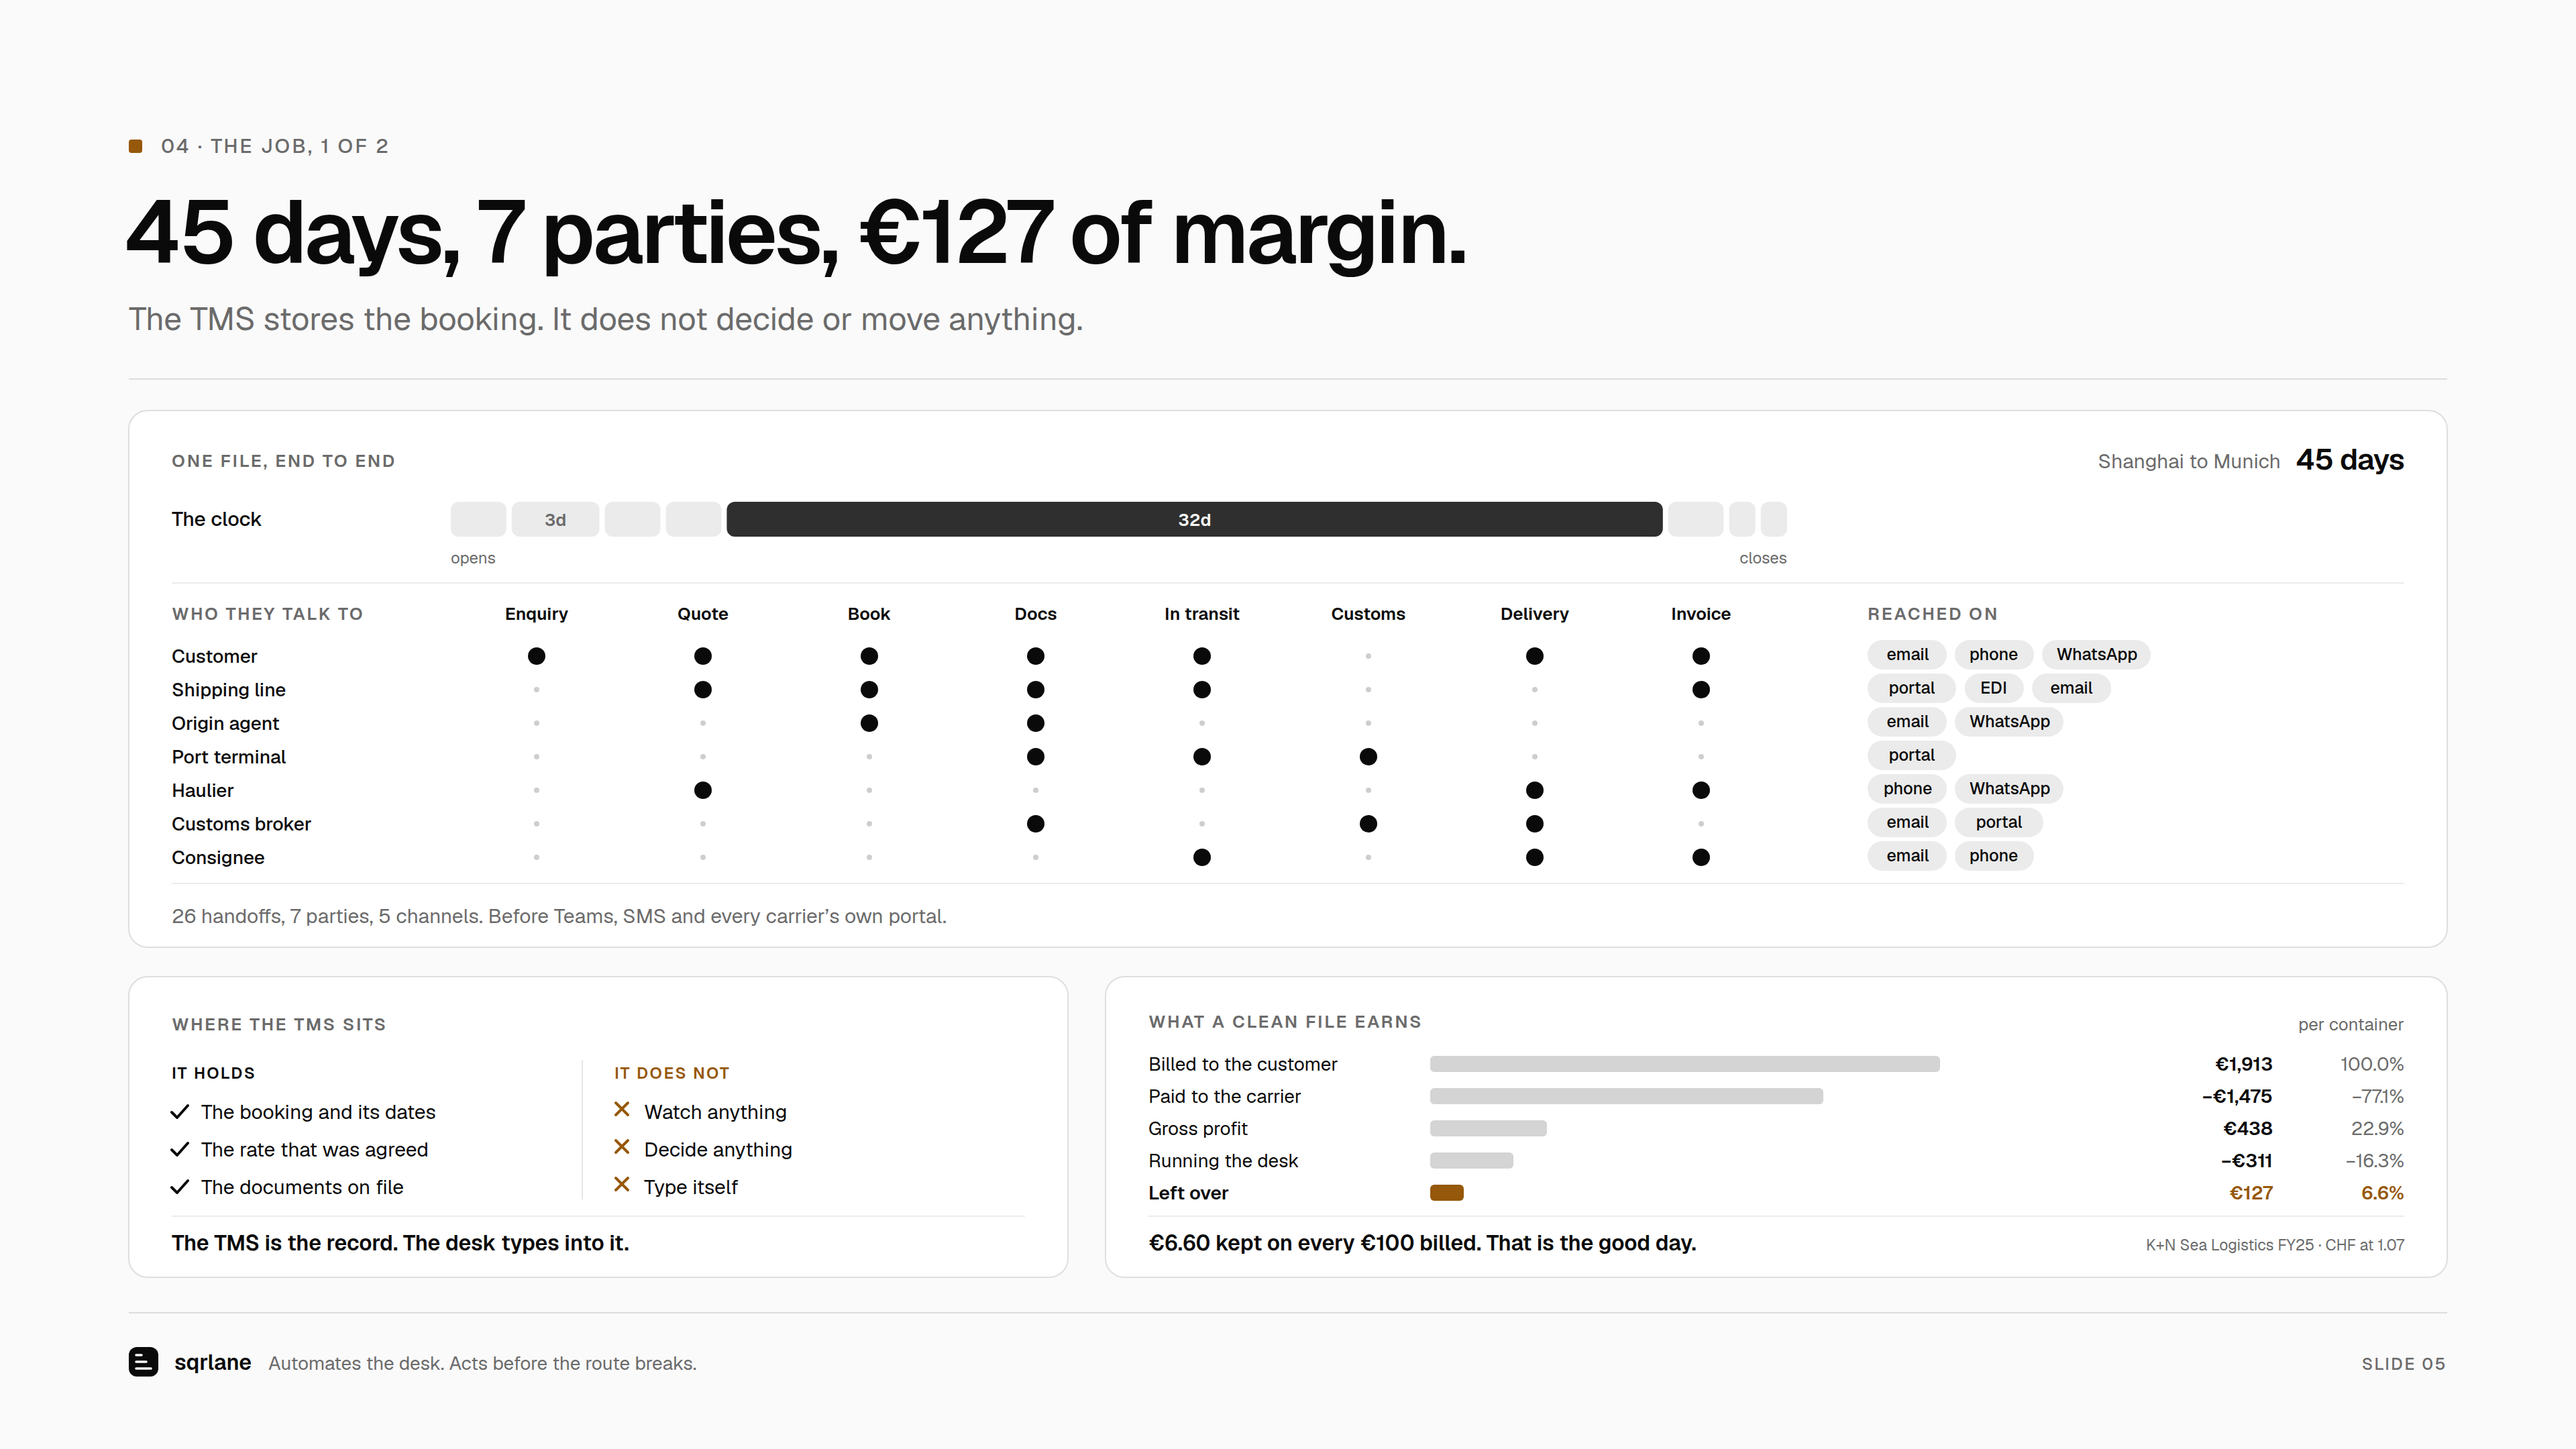
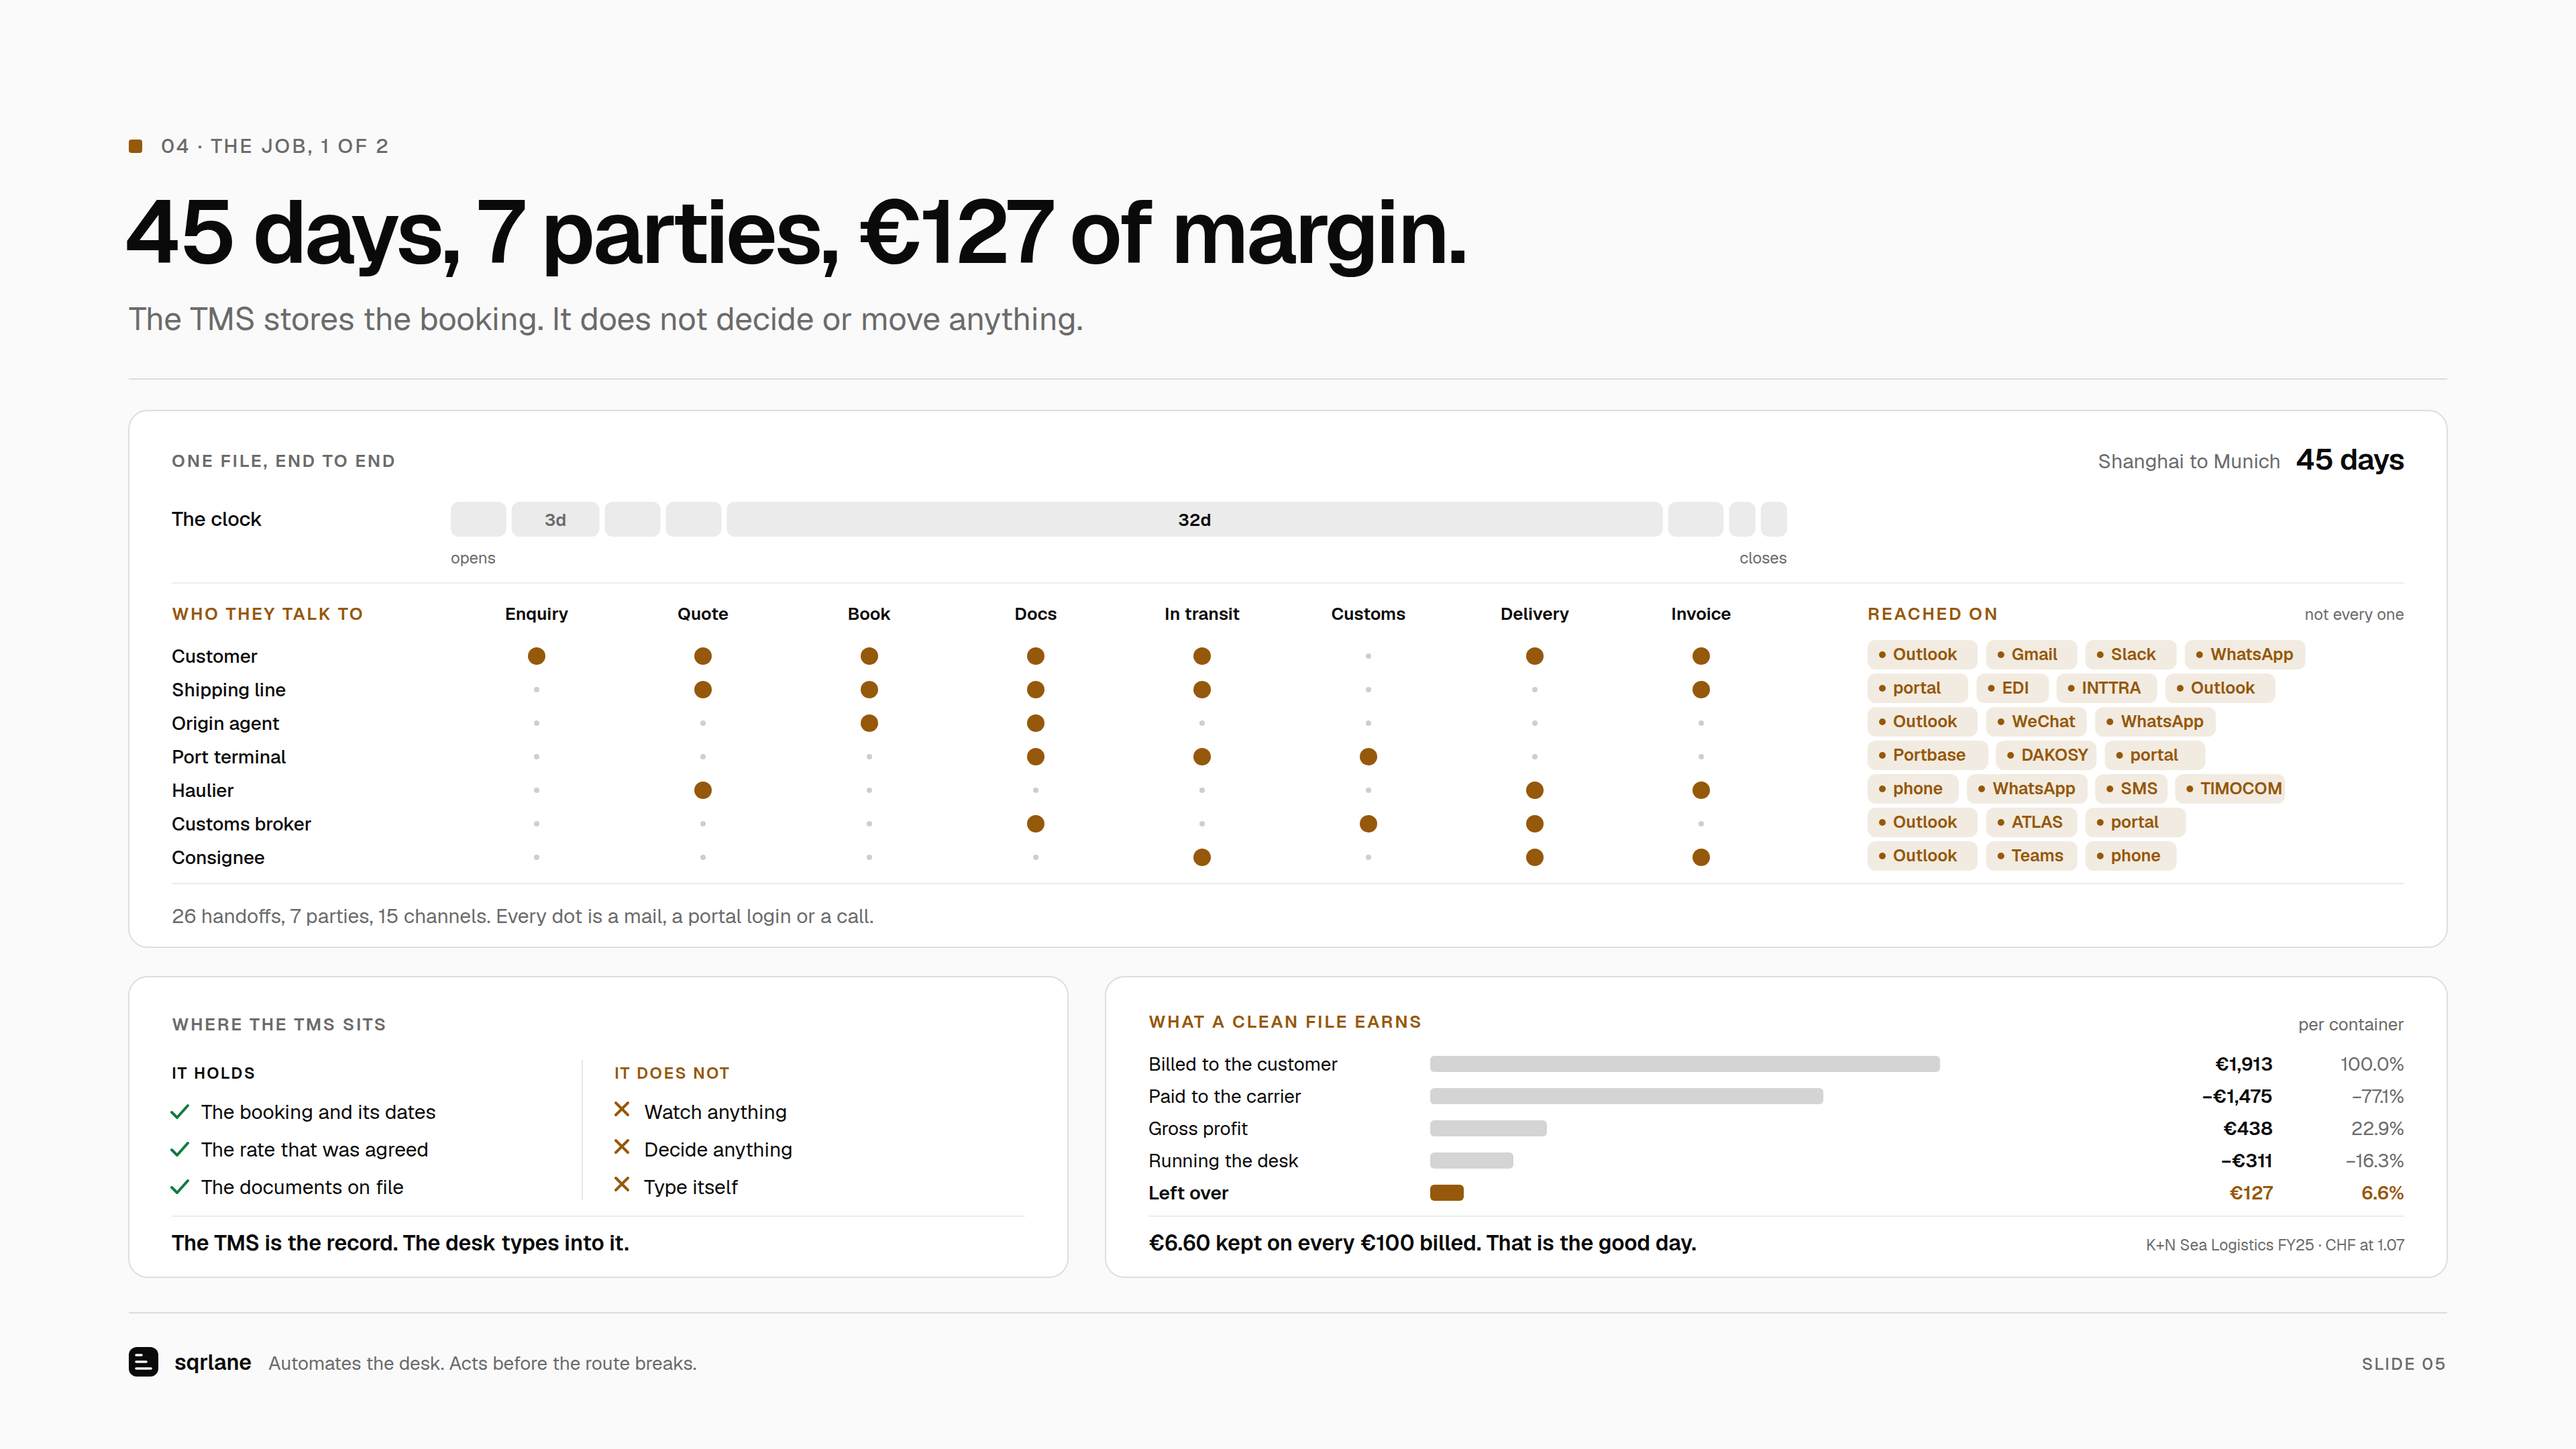
Deck v2 slide 05: original colours, fuller channel list
Claude-Session: https://claude.ai/code/session_01HbtpjYfXPKy7DdRHDFrJUP

diff --git a/deck/v2/build_05.py b/deck/v2/build_05.py
@@ -2,6 +2,7 @@
 """Slide 05 - The Job 1/2. One file end to end: the clock, the 26 handoffs, what the
 TMS holds and does not, and what a clean file earns."""
 from kit import *
+GREEN = "#0F7B3F"
 s = Slide()
 s.header("04 · THE JOB, 1 OF 2", "45 days, 7 parties, €127 of margin.",
          "The TMS stores the booking. It does not decide or move anything.")
@@ -25,9 +26,9 @@ s.g("clock")
 for d in days:
     w = d * unit
     big = d == 32
-    s.R(round(bx, 1), TY + 68, round(w, 1), 26, INK if big else TRACK, 6, ' fill-opacity="0.85"' if big else "")
+    s.R(round(bx, 1), TY + 68, round(w, 1), 26, TRACK, 6)
     if d in (3, 32):
-        s.T(round(bx + w / 2, 1), TY + 86, f"{d:g}d", 13, 600, BG if big else MUT, anchor="middle")
+        s.T(round(bx + w / 2, 1), TY + 86, f"{d:g}d", 13, 600, INK if big else MUT, anchor="middle")
     bx += w + GAPB
 s.T(BX0, TY + 114, "opens", 12, 400, MUT)
 s.T(BX1, TY + 114, "closes", 12, 400, MUT, anchor="end")
@@ -35,19 +36,20 @@ s.end()
 s.rule(TY + 128, 0.08, x0, W - 2 * M - 64)
 
 HY = TY + 156
-s.T(x0, HY, "WHO THEY TALK TO", 13, 600, MUT, ls=1.4)
+s.T(x0, HY, "WHO THEY TALK TO", 13, 600, AMB, ls=1.4)
 for c, st in zip(CX, STAGES):
     s.T(c, HY, st, 13, 600, INK, anchor="middle")
 RX = 1392
-s.T(RX, HY, "REACHED ON", 13, 600, MUT, ls=1.4)
+s.T(RX, HY, "REACHED ON", 13, 600, AMB, ls=1.4)
+s.T(W - M - 32, HY, "not every one", 12, 400, MUT, anchor="end")
 parties = [
-    ("Customer", [1, 1, 1, 1, 1, 0, 1, 1], ["email", "phone", "WhatsApp"]),
-    ("Shipping line", [0, 1, 1, 1, 1, 0, 0, 1], ["portal", "EDI", "email"]),
-    ("Origin agent", [0, 0, 1, 1, 0, 0, 0, 0], ["email", "WhatsApp"]),
-    ("Port terminal", [0, 0, 0, 1, 1, 1, 0, 0], ["portal"]),
-    ("Haulier", [0, 1, 0, 0, 0, 0, 1, 1], ["phone", "WhatsApp"]),
-    ("Customs broker", [0, 0, 0, 1, 0, 1, 1, 0], ["email", "portal"]),
-    ("Consignee", [0, 0, 0, 0, 1, 0, 1, 1], ["email", "phone"]),
+    ("Customer", [1, 1, 1, 1, 1, 0, 1, 1], ["Outlook", "Gmail", "Slack", "WhatsApp"]),
+    ("Shipping line", [0, 1, 1, 1, 1, 0, 0, 1], ["portal", "EDI", "INTTRA", "Outlook"]),
+    ("Origin agent", [0, 0, 1, 1, 0, 0, 0, 0], ["Outlook", "WeChat", "WhatsApp"]),
+    ("Port terminal", [0, 0, 0, 1, 1, 1, 0, 0], ["Portbase", "DAKOSY", "portal"]),
+    ("Haulier", [0, 1, 0, 0, 0, 0, 1, 1], ["phone", "WhatsApp", "SMS", "TIMOCOM"]),
+    ("Customs broker", [0, 0, 0, 1, 0, 1, 1, 0], ["Outlook", "ATLAS", "portal"]),
+    ("Consignee", [0, 0, 0, 0, 1, 0, 1, 1], ["Outlook", "Teams", "phone"]),
 ]
 assert sum(sum(p[1]) for p in parties) == 26
 s.g("handoffs")
@@ -56,18 +58,19 @@ for r, (name, marks, chans) in enumerate(parties):
     s.T(x0, ry, name, 14, 500)
     for c, m in zip(CX, marks):
         if m:
-            s.raw(f'<circle cx="{c}" cy="{ry - 5}" r="6.5" fill="{INK}"/>')
+            s.raw(f'<circle cx="{c}" cy="{ry - 5}" r="6.5" fill="{AMB}"/>')
         else:
             s.raw(f'<circle cx="{c}" cy="{ry - 5}" r="2" fill="{INK}" fill-opacity="0.2"/>')
     cx = RX
     for ch in chans:
-        w = len(ch) * 7.4 + 22
-        s.R(cx, ry - 17, round(w), 22, TRACK, 11)
-        s.T(round(cx + w / 2), ry - 2, ch, 12.5, 500, INK, anchor="middle")
+        w = len(ch) * 7.2 + 32
+        s.R(cx, ry - 17, round(w), 22, AMB, 6, ' fill-opacity="0.12"')
+        s.raw(f'<circle cx="{cx + 11}" cy="{ry - 6}" r="2.5" fill="{AMB}"/>')
+        s.T(cx + 19, ry - 2, ch, 12.5, 600, AMB)
         cx += w + 6
 s.end()
 s.rule(TY + TH - 48, 0.08, x0, W - 2 * M - 64)
-s.T(x0, TY + TH - 18, "26 handoffs, 7 parties, 5 channels. Before Teams, SMS and every carrier’s own portal.", 15, 400, MUT)
+s.T(x0, TY + TH - 18, "26 handoffs, 7 parties, 15 channels. Every dot is a mail, a portal login or a call.", 15, 400, MUT)
 s.end()
 
 # ---- bottom: what the TMS does, what a clean file earns
@@ -84,7 +87,7 @@ for i, (head, items, ok) in enumerate(cols):
     for k, it in enumerate(items):
         iy = BY + 106 + k * 28
         if ok:
-            s.raw(f'<path d="M{cx} {iy - 5} l4 4 l8 -9" stroke="{INK}" stroke-width="2" fill="none" stroke-linecap="round" stroke-linejoin="round"/>')
+            s.raw(f'<path d="M{cx} {iy - 5} l4 4 l8 -9" stroke="{GREEN}" stroke-width="2" fill="none" stroke-linecap="round" stroke-linejoin="round"/>')
         else:
             s.raw(f'<path d="M{cx + 1} {iy - 12} l9 9 M{cx + 10} {iy - 12} l-9 9" stroke="{AMB}" stroke-width="2" fill="none" stroke-linecap="round"/>')
         s.T(cx + 22, iy, it, 15, 400)
@@ -97,7 +100,7 @@ RX0, RW = M + LW + 28, W - 2 * M - LW - 28
 s.g("what-a-clean-file-earns")
 s.card(RX0, BY, RW, BH)
 ex = RX0 + 32
-s.T(ex, BY + 38, "WHAT A CLEAN FILE EARNS", 13, 600, MUT, ls=1.4)
+s.T(ex, BY + 38, "WHAT A CLEAN FILE EARNS", 13, 600, AMB, ls=1.4)
 s.T(RX0 + RW - 32, BY + 40, "per container", 13, 400, MUT, anchor="end")
 rows = [("Billed to the customer", "€1,913", "100.0%", 1913, False, False),
         ("Paid to the carrier", "−€1,475", "−77.1%", 1475, False, False),
